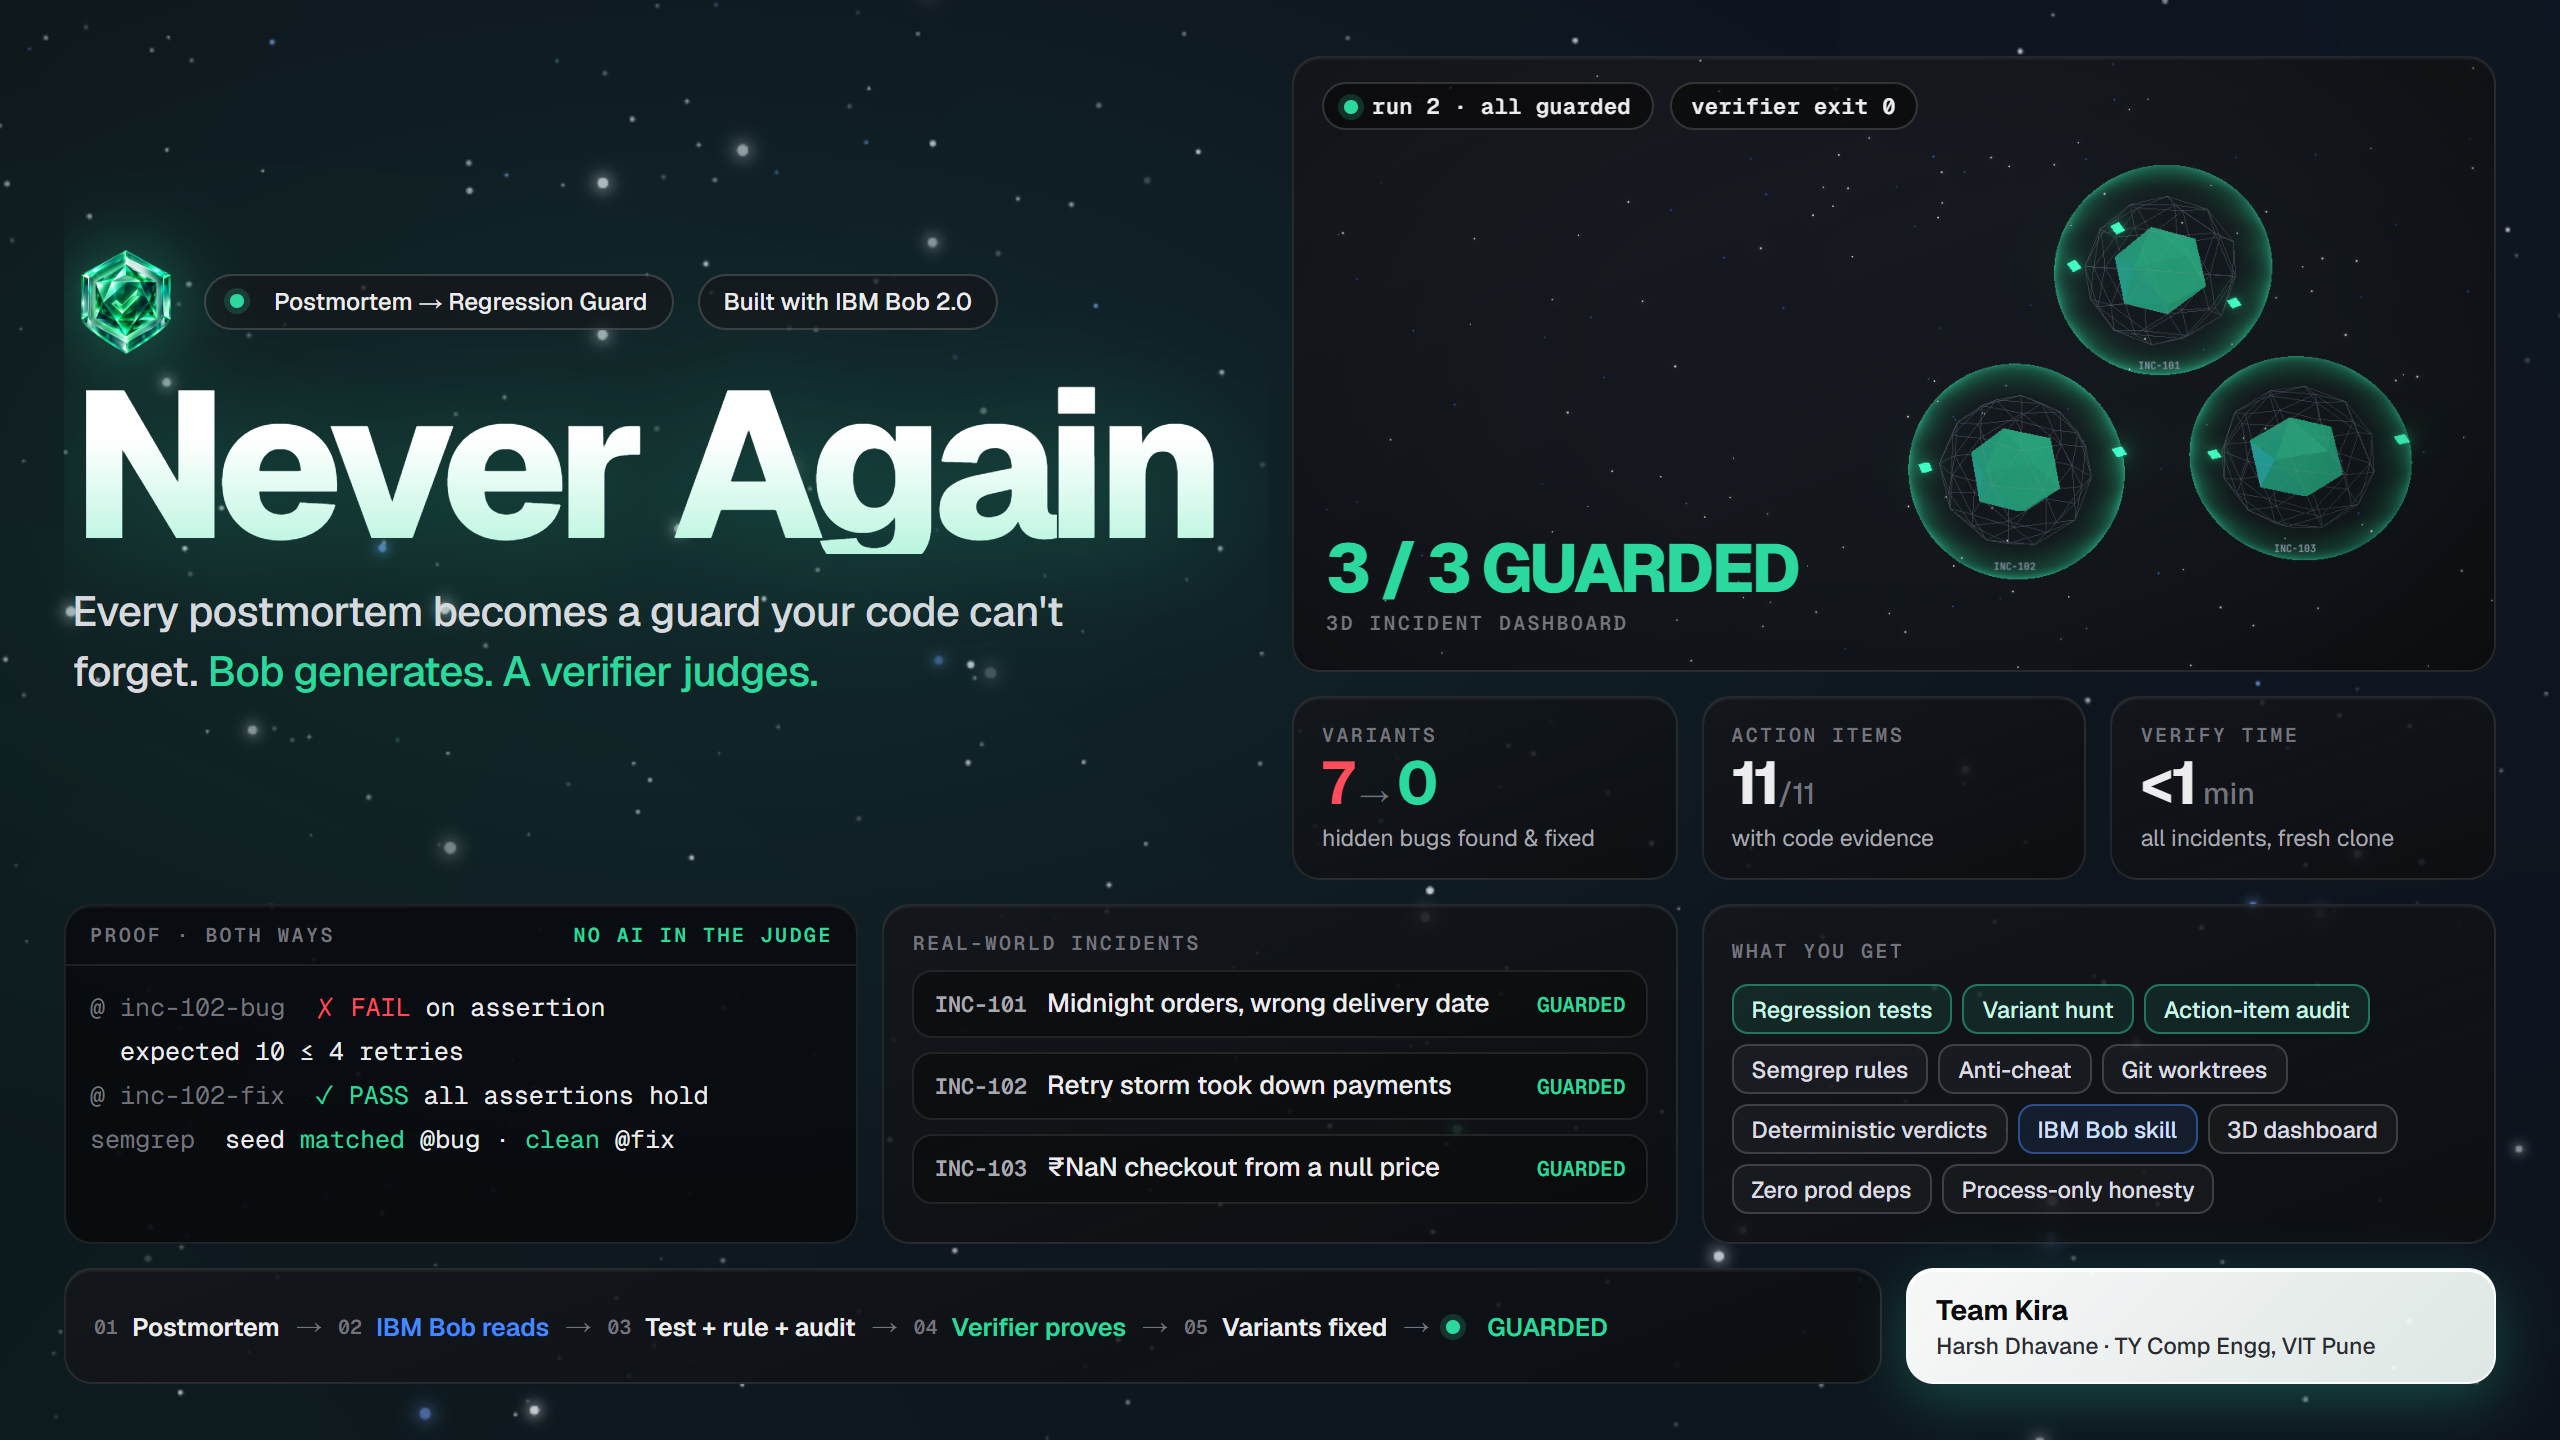
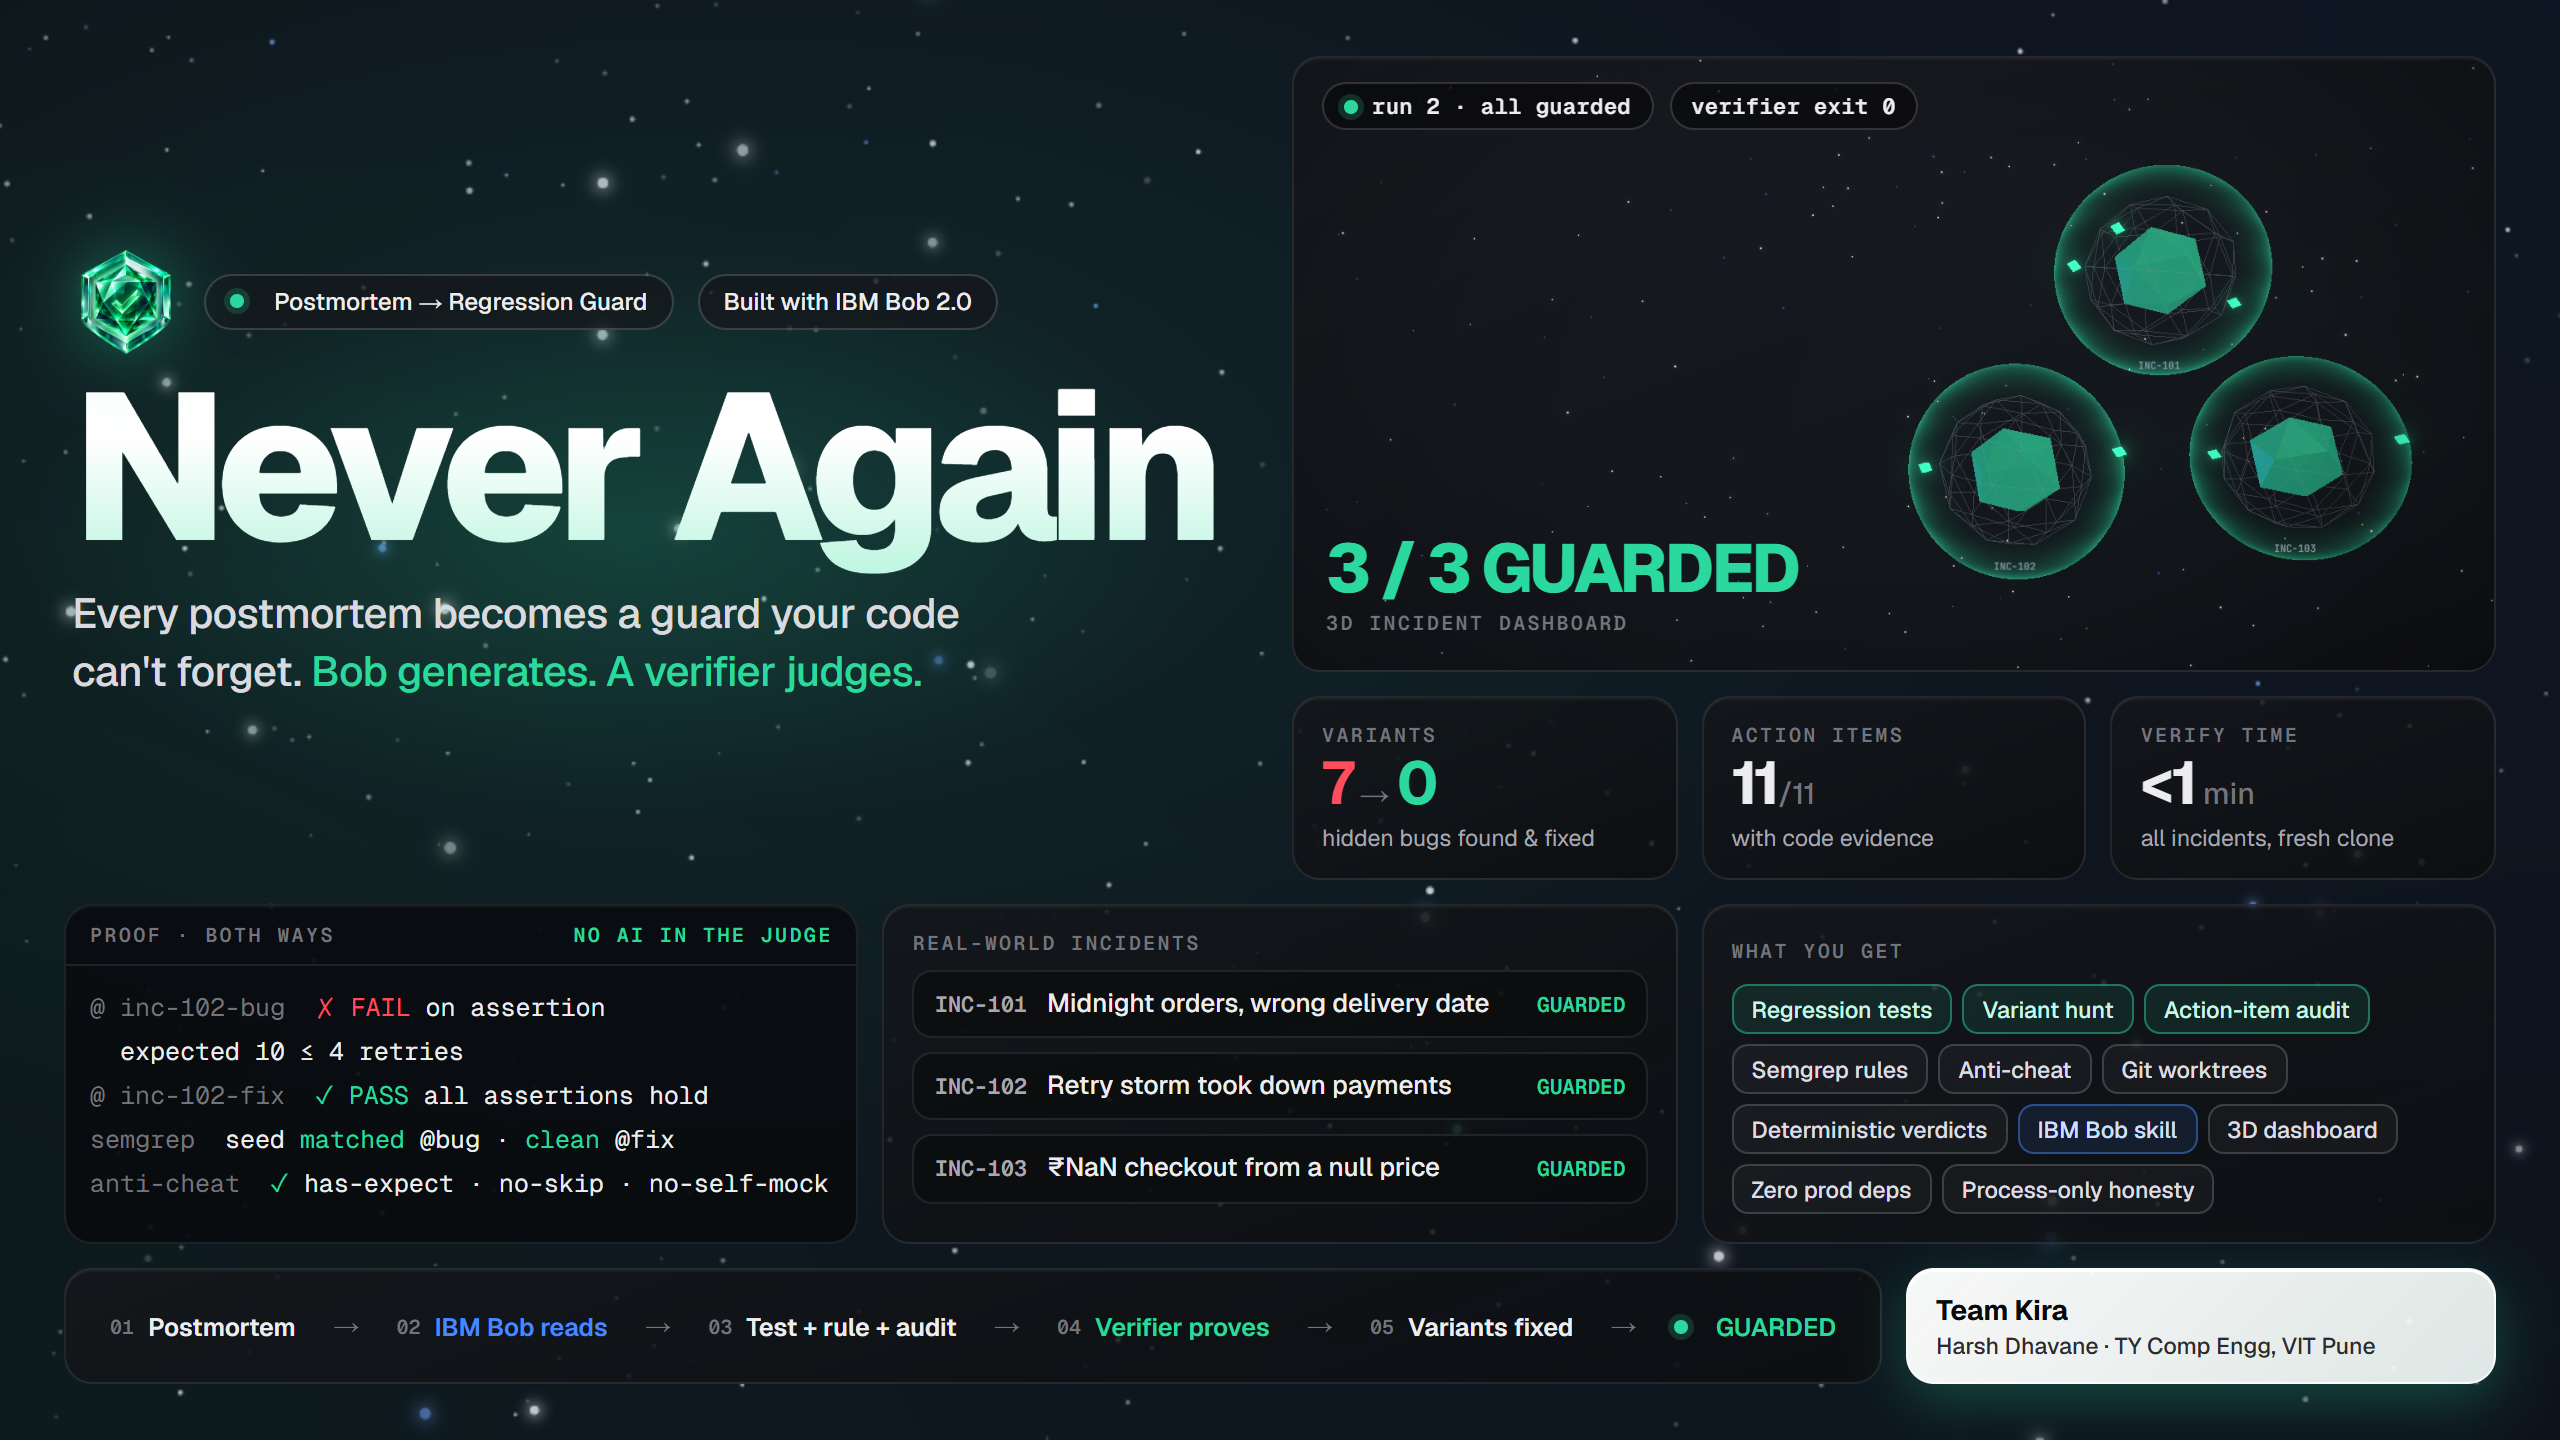
fix(cover): uncut 'g' descender, no clipped glow box, filled proof tile, spread pipeline, balanced tagline

diff --git a/docs/submission/cover.html b/docs/submission/cover.html
@@ -34,16 +34,19 @@
   .bg-a { background: var(--amber); box-shadow: 0 0 0 3px rgba(255,181,71,.18); }
 
   /* Hero title block */
-  .hero { grid-column: 1 / 7; grid-row: 1 / 3; border: 0; background: none; box-shadow: none; padding: 6px 4px 0;
+  .hero { grid-column: 1 / 7; grid-row: 1 / 3; border: 0; background: none; box-shadow: none; padding: 6px 4px 0; overflow: visible;
     display: flex; flex-direction: column; justify-content: center; }
   .brandrow { display: flex; align-items: center; gap: 12px; margin-bottom: 10px; }
   .brandrow img { width: 54px; height: 54px; filter: drop-shadow(0 0 18px rgba(43,217,159,.45)); }
   .pill { display: inline-flex; align-items: center; gap: 8px; padding: 5px 12px; border-radius: 999px;
     border: 1px solid var(--line-2); background: rgba(20,22,26,.7); font: 500 12px 'Geist', sans-serif; color: var(--text); }
-  h1 { font-size: 104px; font-weight: 800; line-height: .86; letter-spacing: -0.055em;
+  h1 { font-size: 104px; font-weight: 800; line-height: 1.02; letter-spacing: -0.055em; padding-bottom: 6px; margin: -8px 0 -14px;
     background: linear-gradient(180deg, #ffffff 35%, #b9f5df 100%); -webkit-background-clip: text; background-clip: text; color: transparent;
-    filter: drop-shadow(0 6px 30px rgba(43,217,159,.25)); }
-  .tagline { margin-top: 14px; font-size: 21px; font-weight: 500; letter-spacing: -0.015em; color: #d9d9de; max-width: 560px; }
+    text-shadow: none; }
+  /* soft glow behind the title, drawn as its own layer so nothing clips it */
+  .hero::before { content: ''; position: absolute; left: -20px; top: 24%; width: 600px; height: 280px; z-index: -1;
+    background: radial-gradient(closest-side, rgba(43,217,159,.15), transparent); pointer-events: none; }
+  .tagline { margin-top: 14px; font-size: 21px; font-weight: 500; letter-spacing: -0.015em; color: #d9d9de; max-width: 600px; text-wrap: balance; }
   .tagline em { font-style: normal; color: var(--green); }
 
   /* Constellation card */
@@ -84,7 +87,7 @@
   .tag.bl { border-color: rgba(69,137,255,.45); background: rgba(69,137,255,.1); color: #cfe0ff; }
 
   /* Pipeline strip */
-  .pipe { grid-column: 1 / 10; grid-row: 4 / 5; display: flex; align-items: center; gap: 8px; padding: 0 14px; }
+  .pipe { grid-column: 1 / 10; grid-row: 4 / 5; display: flex; align-items: center; justify-content: space-between; gap: 8px; padding: 0 22px; }
   .step { display: inline-flex; align-items: center; gap: 7px; font: 600 12.5px 'Geist', sans-serif; white-space: nowrap; }
   .step i { font-style: normal; font: 600 10px 'Geist Mono', monospace; color: var(--muted); }
   .arrow { color: var(--muted); font-size: 13px; }
@@ -126,7 +129,8 @@
     <pre><span class="muted">@ inc-102-bug</span>  <span class="r">✗ FAIL</span> on assertion
   expected 10 ≤ 4 retries
 <span class="muted">@ inc-102-fix</span>  <span class="g">✓ PASS</span> all assertions hold
-<span class="muted">semgrep</span>  seed <span class="g">matched</span> @bug · <span class="g">clean</span> @fix</pre>
+<span class="muted">semgrep</span>  seed <span class="g">matched</span> @bug · <span class="g">clean</span> @fix
+<span class="muted">anti-cheat</span>  <span class="g">✓</span> has-expect · no-skip · no-self-mock</pre>
   </div>
 
   <div class="tile incidents">
